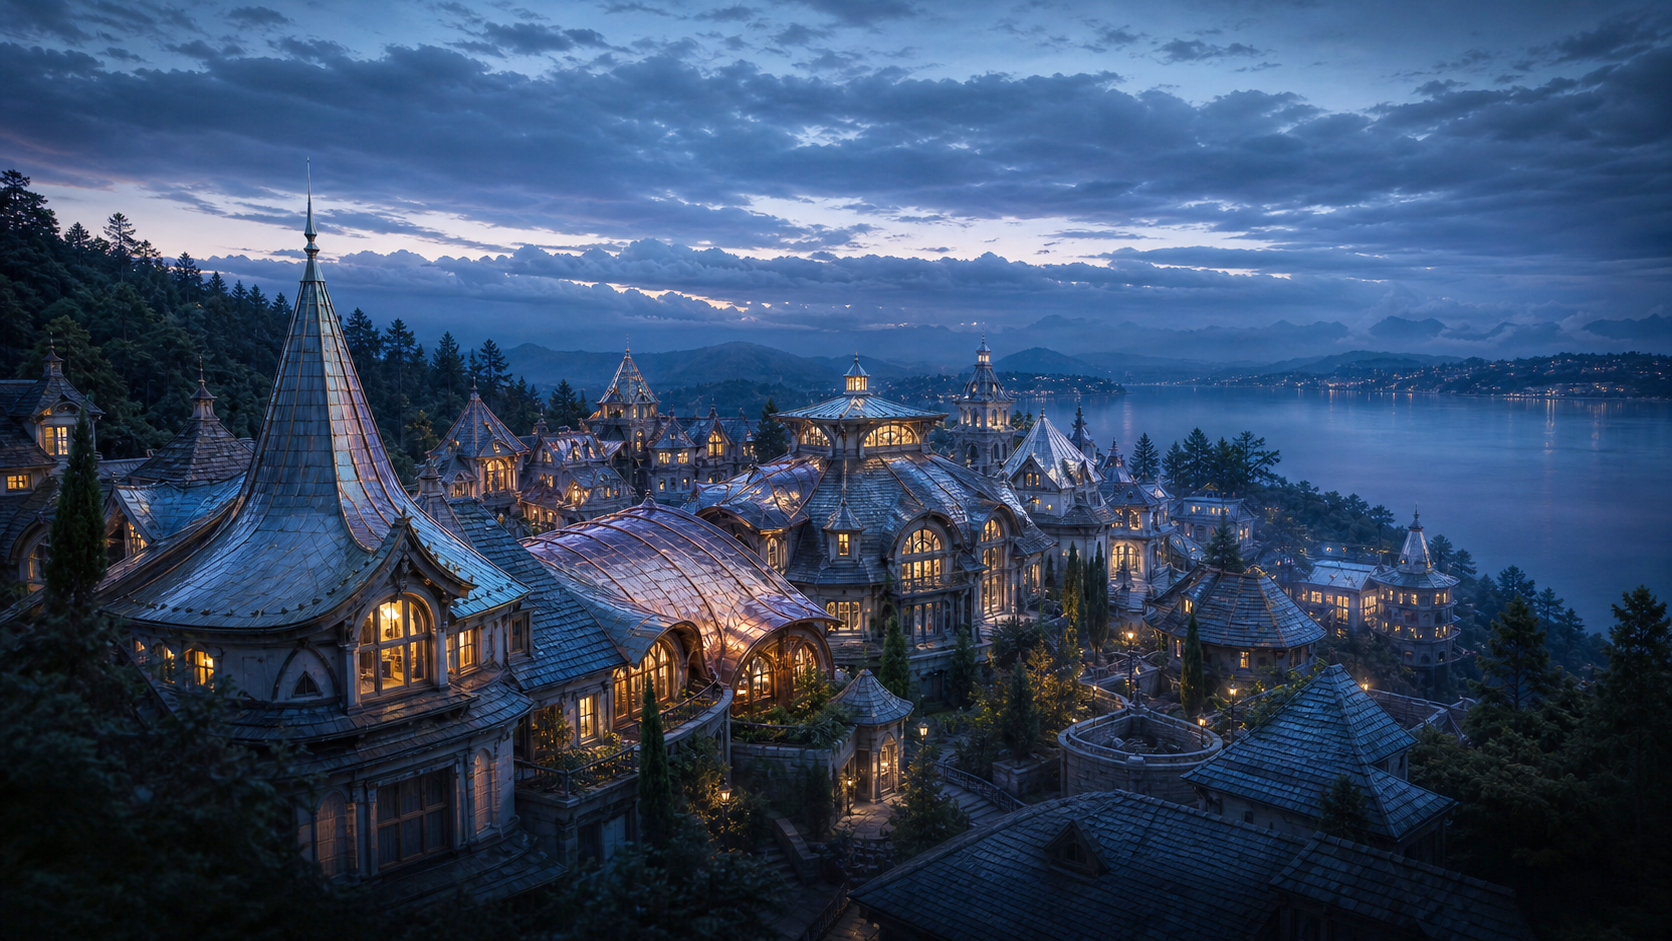
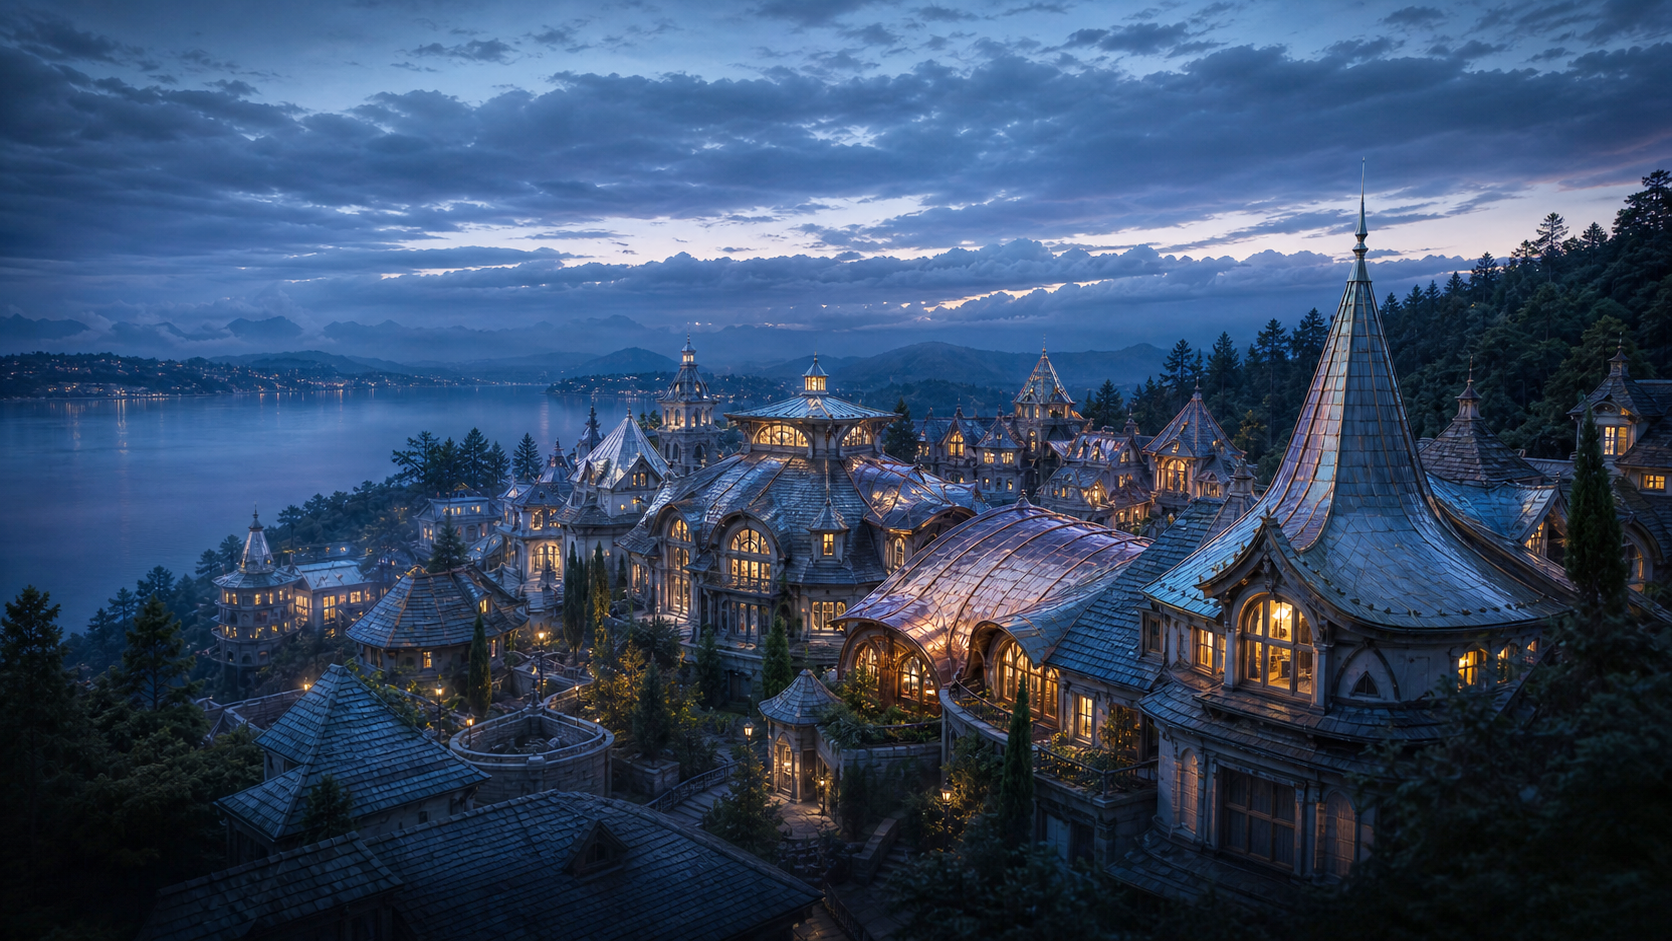
Refresh site visuals and add service hologram

diff --git a/src/styles.css b/src/styles.css
@@ -45,7 +45,7 @@ a { color: inherit; text-decoration: none; }
 .menu-button span { display: block; width: 25px; height: 2px; margin: 5px; background: #041421; }
 .mobile-nav { display: none; }
 .hero { --hero-copper-edge-height: clamp(5px, .55vw, 9px); --hero-copper-edge-shadow-height: clamp(6px, .6vw, 10px); z-index: 2; aspect-ratio: 6821 / 2354.7; position: relative; overflow: hidden; isolation: isolate; background: #041421; }
-.hero::before, .hero::after { content: ''; position: absolute; right: -32px; left: -32px; z-index: 4; height: calc(var(--hero-copper-edge-height) + var(--hero-copper-edge-shadow-height)); background-image: linear-gradient(to bottom, transparent 0 calc(var(--hero-copper-edge-height) - 2px), rgba(4,20,33,.42) calc(var(--hero-copper-edge-height) - 1px), rgba(4,20,33,.7) var(--hero-copper-edge-height), rgba(4,20,33,0) 100%), url('/assets/ui/copper-edge.png'); background-position: 0 0, center top; background-size: 100% 100%, 100% var(--hero-copper-edge-height); background-repeat: no-repeat; filter: drop-shadow(0 3.5px 5px rgba(4,20,33,.65)); pointer-events: none; }
+.hero::before, .hero::after { content: ''; position: absolute; right: -32px; left: -32px; z-index: 4; height: calc(var(--hero-copper-edge-height) + var(--hero-copper-edge-shadow-height)); background-image: linear-gradient(to bottom, transparent 0 calc(var(--hero-copper-edge-height) - 2px), rgba(4,20,33,.34) calc(var(--hero-copper-edge-height) - 1px), rgba(4,20,33,.56) var(--hero-copper-edge-height), rgba(4,20,33,0) 100%), url('/assets/ui/copper-edge.png'); background-position: 0 0, center top; background-size: 100% 100%, 100% var(--hero-copper-edge-height); background-repeat: no-repeat; filter: drop-shadow(0 3.5px 6px rgba(4,20,33,.52)); pointer-events: none; }
 .hero::before { top: 0; }
 .hero::after { display: none; }
 .hero-sky-track { position: absolute; inset: 0; z-index: -3; display: flex; width: max-content; height: 100%; will-change: transform; }
@@ -118,8 +118,8 @@ h1 .hero-accent { color: #d25f26; }
 @keyframes modal-fade-in { from { opacity: 0; } to { opacity: 1; } }
 @keyframes modal-rise-in { from { opacity: 0; transform: translateY(1rem) scale(.98); } to { opacity: 1; transform: translateY(0) scale(1); } }
 .badge-strip { --shirt-hem-height: clamp(26px, 3.15vw, 52px); --copper-edge-height: clamp(5px, .55vw, 9px); --copper-edge-shadow-height: clamp(6px, .6vw, 10px); z-index: 1; height: calc(100vw * 548 / 6821 + var(--shirt-hem-height) - 12px); position: relative; overflow: hidden; background: linear-gradient(rgba(16,36,50,.08), rgba(16,36,50,.08)), url('/assets/textures/badge-banner-workshirt-full-hem.png') center bottom / 100% var(--shirt-hem-height) no-repeat, url('/assets/textures/badge-banner-workshirt.png') center bottom / cover no-repeat, #102432; color: #fff; padding: .7% 4.5%; }
-.badge-strip::before { content: ''; position: absolute; top: 0; right: -32px; left: -32px; z-index: 1; height: calc(var(--copper-edge-height) + var(--copper-edge-shadow-height)); background-image: linear-gradient(to bottom, transparent 0 calc(var(--copper-edge-height) - 2px), rgba(4,20,33,.42) calc(var(--copper-edge-height) - 1px), rgba(4,20,33,.7) var(--copper-edge-height), rgba(4,20,33,0) 100%), url('/assets/ui/copper-edge.png'); background-position: 0 0, center top; background-size: 100% 100%, 100% var(--copper-edge-height); background-repeat: no-repeat; filter: drop-shadow(0 3.5px 5px rgba(4,20,33,.65)); pointer-events: none; }
-.badge-sprite-canvas { position: absolute; top: calc((100% - var(--shirt-hem-height)) / 2 + 3px); left: 4.5%; z-index: 2; width: 91%; aspect-ratio: 2127 / 171; transform: translateY(-50%); }
+.badge-strip::before { content: ''; position: absolute; top: 0; right: -32px; left: -32px; z-index: 1; height: calc(var(--copper-edge-height) + var(--copper-edge-shadow-height)); background-image: linear-gradient(to bottom, transparent 0 calc(var(--copper-edge-height) - 2px), rgba(4,20,33,.34) calc(var(--copper-edge-height) - 1px), rgba(4,20,33,.56) var(--copper-edge-height), rgba(4,20,33,0) 100%), url('/assets/ui/copper-edge.png'); background-position: 0 0, center top; background-size: 100% 100%, 100% var(--copper-edge-height); background-repeat: no-repeat; filter: drop-shadow(0 3.5px 6px rgba(4,20,33,.52)); pointer-events: none; }
+.badge-sprite-canvas { position: absolute; top: calc((100% - var(--shirt-hem-height)) / 2 + 8px); left: 4.5%; z-index: 2; width: 91%; aspect-ratio: 2127 / 171; transform: translateY(-50%); }
 .badge-slice { position: absolute; top: 0; height: 100%; overflow: hidden; opacity: 0; transform: translateY(88%) scale(.98); transform-origin: center bottom; animation: badge-cascade .72s cubic-bezier(.22, 1, .36, 1) forwards; }
 .badge-slice img { position: absolute; top: 0; height: auto; max-width: none; }
 .badge-slice-one { left: 3.06%; width: 17.40%; animation-delay: .08s; }
@@ -206,8 +206,8 @@ h1 .hero-accent { color: #d25f26; }
 @keyframes service-slice-in { to { opacity: 1; transform: translateY(0); } }
 @keyframes service-title-in { from { opacity: 0; } to { opacity: 1; } }
 .gallery-section { --gallery-gap: clamp(8px, .6vw, 12px); --copper-edge-height: clamp(5px, .55vw, 9px); --copper-edge-shadow-height: clamp(6px, .6vw, 10px); position: relative; padding: 3.2vw 2.55%; overflow: hidden; color: #e5dcd2; background: #071925; }
-.gallery-section::before { position: absolute; top: 0; right: -32px; left: -32px; z-index: 4; height: calc(var(--copper-edge-height) + var(--copper-edge-shadow-height)); content: ''; background-image: linear-gradient(to bottom, transparent 0 calc(var(--copper-edge-height) - 2px), rgba(4,20,33,.42) calc(var(--copper-edge-height) - 1px), rgba(4,20,33,.7) var(--copper-edge-height), rgba(4,20,33,0) 100%), url('/assets/ui/copper-edge.png'); background-position: 0 0, center top; background-size: 100% 100%, 100% var(--copper-edge-height); background-repeat: no-repeat; filter: drop-shadow(0 3.5px 5px rgba(4,20,33,.65)); pointer-events: none; }
-.copper-edge-seam { --copper-edge-height: clamp(5px, .55vw, 9px); --copper-edge-shadow-height: clamp(6px, .6vw, 10px); position: relative; z-index: 5; display: block; height: calc(var(--copper-edge-height) + var(--copper-edge-shadow-height)); margin-bottom: calc((var(--copper-edge-height) + var(--copper-edge-shadow-height)) * -1); background-image: linear-gradient(to bottom, transparent 0 calc(var(--copper-edge-height) - 2px), rgba(4,20,33,.42) calc(var(--copper-edge-height) - 1px), rgba(4,20,33,.7) var(--copper-edge-height), rgba(4,20,33,0) 100%), url('/assets/ui/copper-edge.png'); background-position: 0 0, center top; background-size: 100% 100%, 100% var(--copper-edge-height); background-repeat: no-repeat; filter: drop-shadow(0 3.5px 5px rgba(4,20,33,.65)); pointer-events: none; }
+.gallery-section::before { position: absolute; top: 0; right: -32px; left: -32px; z-index: 4; height: calc(var(--copper-edge-height) + var(--copper-edge-shadow-height)); content: ''; background-image: linear-gradient(to bottom, transparent 0 calc(var(--copper-edge-height) - 2px), rgba(4,20,33,.34) calc(var(--copper-edge-height) - 1px), rgba(4,20,33,.56) var(--copper-edge-height), rgba(4,20,33,0) 100%), url('/assets/ui/copper-edge.png'); background-position: 0 0, center top; background-size: 100% 100%, 100% var(--copper-edge-height); background-repeat: no-repeat; filter: drop-shadow(0 3.5px 6px rgba(4,20,33,.52)); pointer-events: none; }
+.copper-edge-seam { --copper-edge-height: clamp(5px, .55vw, 9px); --copper-edge-shadow-height: clamp(6px, .6vw, 10px); position: relative; z-index: 5; display: block; height: calc(var(--copper-edge-height) + var(--copper-edge-shadow-height)); margin-bottom: calc((var(--copper-edge-height) + var(--copper-edge-shadow-height)) * -1); background-image: linear-gradient(to bottom, transparent 0 calc(var(--copper-edge-height) - 2px), rgba(4,20,33,.34) calc(var(--copper-edge-height) - 1px), rgba(4,20,33,.56) var(--copper-edge-height), rgba(4,20,33,0) 100%), url('/assets/ui/copper-edge.png'); background-position: 0 0, center top; background-size: 100% 100%, 100% var(--copper-edge-height); background-repeat: no-repeat; filter: drop-shadow(0 3.5px 6px rgba(4,20,33,.52)); pointer-events: none; }
 .gallery-layout { --gallery-rail-width: clamp(6.8rem, 8vw, 9rem); --gallery-layout-gap: clamp(1rem, 1.8vw, 2rem); container-type: inline-size; display: grid; grid-template-columns: var(--gallery-rail-width) minmax(0, 1fr); align-items: start; column-gap: var(--gallery-layout-gap); }
 .gallery-content { position: relative; min-width: 0; }
 .gallery-brutalist-heading { align-self: stretch; margin: 0; opacity: 0; transform: translateY(1.2vw); position: relative; z-index: 2; }

diff --git a/src/premium-sections.css b/src/premium-sections.css
@@ -1,4 +1,4 @@
-:where(.premium-sections, .premium-footer, .premium-persistent-cta) {
+:where(.premium-sections, .premium-footer, .customer-service-hologram) {
   --premium-ink: #041421;
   --premium-ink-2: #102b3d;
   --premium-cream: #e5dcd2;
@@ -275,7 +275,7 @@
 .premium-review-google-link img { width: min(1.2rem,1.33vw); height: min(1.2rem,1.33vw); }
 
 .premium-footer { --copper-edge-height: clamp(5px, .55vw, 9px); --copper-edge-shadow-height: clamp(6px, .6vw, 10px); position: relative; height: 72vw; min-height: 0; overflow: hidden; color: #fff; background: var(--premium-ink); }
-.premium-footer::before { position: absolute; top: 0; right: -32px; left: -32px; z-index: 4; height: calc(var(--copper-edge-height) + var(--copper-edge-shadow-height)); content: ''; background-image: linear-gradient(to bottom, transparent 0 calc(var(--copper-edge-height) - 2px), rgba(4,20,33,.42) calc(var(--copper-edge-height) - 1px), rgba(4,20,33,.7) var(--copper-edge-height), rgba(4,20,33,0) 100%), url('/assets/ui/copper-edge.png'); background-position: 0 0, center top; background-size: 100% 100%, 100% var(--copper-edge-height); background-repeat: no-repeat; filter: drop-shadow(0 3.5px 5px rgba(4,20,33,.65)); pointer-events: none; }
+.premium-footer::before { position: absolute; top: 0; right: -32px; left: -32px; z-index: 4; height: calc(var(--copper-edge-height) + var(--copper-edge-shadow-height)); content: ''; background-image: linear-gradient(to bottom, transparent 0 calc(var(--copper-edge-height) - 2px), rgba(4,20,33,.34) calc(var(--copper-edge-height) - 1px), rgba(4,20,33,.56) var(--copper-edge-height), rgba(4,20,33,0) 100%), url('/assets/ui/copper-edge.png'); background-position: 0 0, center top; background-size: 100% 100%, 100% var(--copper-edge-height); background-repeat: no-repeat; filter: drop-shadow(0 3.5px 6px rgba(4,20,33,.52)); pointer-events: none; }
 .premium-footer-matte { position: absolute; inset: 0; pointer-events: none; }
 .premium-footer-matte::after { position: absolute; inset: 0; content: ''; background: linear-gradient(0deg,#031018 2%,rgba(3,16,24,.9) 30%,rgba(3,16,24,.36) 68%,rgba(3,16,24,.76)); opacity: .85; }
 .premium-footer-back { width: 100%; height: 100%; display: block; object-fit: contain; object-position: center top; transform: translateY(-1.5vw); }
@@ -317,11 +317,15 @@
 .premium-footer-utility a:hover,.premium-footer-utility a:focus-visible { color: #fff; border-bottom-color: var(--premium-orange); }
 .premium-footer-utility > div { justify-content: flex-end; color: rgba(255,255,255,.6); font-family: 'IBM Plex Mono',monospace; font-size: .62vw; font-weight: 700; letter-spacing: .08em; text-transform: uppercase; }
 
-.premium-persistent-cta { position: fixed; right: 1.6rem; bottom: max(1.6rem,env(safe-area-inset-bottom)); z-index: 18; width: min(24.4rem,calc(100vw - 2.25rem)); min-height: 4.6rem; padding: .45rem; border: 1px solid rgba(240,183,124,.9); display: grid; grid-template-columns: 3.5rem 1fr 3rem; align-items: center; gap: .75rem; color: #fff; background: linear-gradient(145deg,rgba(255,255,255,.11),transparent 32%),url('/assets/textures/powder-coated-navy-steel.png') center / 600px,var(--premium-ink); box-shadow: 0 1.25rem 3.75rem rgba(2,12,19,.36),inset 0 0 0 3px rgba(0,0,0,.28); opacity: 0; transform: translateY(1.75rem) scale(.97); pointer-events: none; cursor: pointer; transition: opacity .3s ease,transform .5s cubic-bezier(.2,.8,.2,1); }
-.premium-persistent-cta.is-visible { opacity: 1; transform: none; pointer-events: auto; }
-.premium-persistent-icon,.premium-persistent-arrow { align-self: stretch; display: grid; place-items: center; }.premium-persistent-icon { border: 1px solid rgba(240,183,124,.5); color: var(--premium-copper-light); background: rgba(185,110,66,.1); font-size: 1.3rem; }.premium-persistent-arrow { color: #fff; background: var(--premium-orange); font-size: 1.15rem; }
-.premium-persistent-copy { display: grid; gap: 3px; text-align: left; animation: premium-cta-copy .35s ease both; }.premium-persistent-copy small { color: var(--premium-copper-light); font-family: 'IBM Plex Mono',monospace; font-size: .55rem; font-weight: 700; letter-spacing: .12em; text-transform: uppercase; }.premium-persistent-copy strong { font-family: Antonio,sans-serif; font-size: 1rem; font-weight: 600; letter-spacing: .02em; text-transform: uppercase; }
-@keyframes premium-cta-copy { from { opacity: 0; transform: translateY(6px); } }
+.customer-service-hologram { position: fixed; right: clamp(.65rem,2vw,1.6rem); bottom: max(.4rem,env(safe-area-inset-bottom)); z-index: 18; width: clamp(12rem,19vw,18rem); aspect-ratio: 720 / 1626; padding: 0; border: 0; opacity: 0; overflow: visible; background: transparent; filter: drop-shadow(0 1.1rem 1.5rem rgba(2,12,19,.38)); transform: translateX(calc(100% + 2rem)); pointer-events: none; cursor: pointer; transition: opacity .35s ease .62s,transform .55s cubic-bezier(.3,.75,.2,1) .62s,filter .25s ease; }
+.customer-service-hologram.is-active { opacity: 1; transform: translateX(0); pointer-events: auto; transition-delay: 0s; }
+.customer-service-hologram.is-obscured { opacity: 0; pointer-events: none; transition: opacity .2s ease; }
+.customer-service-hologram:hover { filter: drop-shadow(0 1.15rem 1.7rem rgba(2,12,19,.5)) brightness(1.06); }
+.customer-service-hologram:focus-visible { outline: 2px solid #fff; outline-offset: .2rem; }
+.customer-service-hologram-puck,.customer-service-hologram-reveal,.customer-service-hologram-reveal img { position: absolute; inset: 0; width: 100%; height: 100%; object-fit: contain; }
+.customer-service-hologram-puck { display: block; }
+.customer-service-hologram-reveal { clip-path: inset(100% 0 0); transition: clip-path .58s cubic-bezier(.55,.05,.35,1); }
+.customer-service-hologram.is-active .customer-service-hologram-reveal { clip-path: inset(0); transition-delay: .48s; }
 
 .app.is-mobile-device .premium-shell { width: calc(100% - 28px); }
 .app.is-mobile-device .premium-kicker { font-size: .72rem; }
@@ -372,9 +376,9 @@
 .app.is-mobile-device .premium-footer-utility nav,
 .app.is-mobile-device .premium-footer-utility > div { gap: .9rem 1.75rem; }
 .app.is-mobile-device .premium-footer-utility > div { justify-content: flex-start; font-size: .56rem; }
-.app.is-mobile-device .premium-persistent-cta { right: .75rem; bottom: max(.75rem,env(safe-area-inset-bottom)); width: calc(100vw - 1.5rem); grid-template-columns: 3.1rem 1fr 2.75rem; }
+.app.is-mobile-device .customer-service-hologram { right: .45rem; width: clamp(10rem,43vw,13rem); }
 
 @media (prefers-reduced-motion: reduce) {
   [data-premium-reveal] { opacity: 1; transform: none; }
-  .premium-sections *, .premium-sections *::before, .premium-sections *::after, .premium-footer *, .premium-footer *::before, .premium-footer *::after, .premium-persistent-cta { animation-duration: .001ms !important; animation-iteration-count: 1 !important; scroll-behavior: auto !important; }
+  .premium-sections *, .premium-sections *::before, .premium-sections *::after, .premium-footer *, .premium-footer *::before, .premium-footer *::after, .customer-service-hologram, .customer-service-hologram * { animation-duration: .001ms !important; animation-iteration-count: 1 !important; transition-duration: .001ms !important; transition-delay: 0s !important; scroll-behavior: auto !important; }
 }

diff --git a/src/PremiumSections.tsx b/src/PremiumSections.tsx
@@ -38,16 +38,6 @@ const serviceLocation = {
   mapsUrl: 'https://www.google.com/maps/search/?api=1&query=The%20Garden%2C%2026%20Gandalf%27s%20Cutting%2C%20Waikato%203472%2C%20New%20Zealand',
 }
 
-const ctaContexts = [
-  { section: 'top', eyebrow: 'Free roof inspection', label: 'Book an appointment' },
-  { section: 'services', eyebrow: 'Need a recommendation?', label: 'Choose my roof system' },
-  { section: 'work', eyebrow: 'Found the roof you want?', label: 'Price this roof' },
-  { section: 'protection', eyebrow: 'Concerned about hidden layers?', label: 'Inspect my roof' },
-  { section: 'reviews', eyebrow: 'Ready for the same care?', label: 'Book an appointment' },
-  { section: 'location', eyebrow: 'Inside the service area?', label: 'Check availability' },
-  { section: 'contact', eyebrow: 'Start with certainty', label: 'Book an appointment' },
-] as const
-
 function usePremiumReveal() {
   useEffect(() => {
     const elements = Array.from(document.querySelectorAll<HTMLElement>('[data-premium-reveal]'))
@@ -183,27 +173,64 @@ export function PremiumFooter({ onBook }: BookHandler) {
   )
 }
 
-export function PersistentPremiumCta({ onBook, hidden }: BookHandler & { hidden: boolean }) {
-  const [activeSection, setActiveSection] = useState('top')
-  const [visible, setVisible] = useState(false)
+export function CustomerServiceHologram({ onBook, hidden }: BookHandler & { hidden: boolean }) {
+  const [active, setActive] = useState(false)
 
   useEffect(() => {
-    const hero = document.getElementById('top')
-    const sections = ctaContexts.map((item) => document.getElementById(item.section)).filter((node): node is HTMLElement => Boolean(node))
-    const heroObserver = hero ? new IntersectionObserver(([entry]) => setVisible(!entry.isIntersecting), { threshold: .18 }) : null
-    if (hero && heroObserver) heroObserver.observe(hero)
-    const sectionObserver = new IntersectionObserver((entries) => {
-      const candidate = entries.filter((entry) => entry.isIntersecting).sort((a, b) => b.intersectionRatio - a.intersectionRatio)[0]
-      if (candidate?.target.id) setActiveSection(candidate.target.id)
-    }, { rootMargin: '-25% 0px -55%', threshold: [0, .2, .5, .8] })
-    sections.forEach((section) => sectionObserver.observe(section))
-    return () => { heroObserver?.disconnect(); sectionObserver.disconnect() }
+    let frame = 0
+    let previousScrollY = window.scrollY
+    const update = () => {
+      frame = 0
+      const scrollY = window.scrollY
+      const scrollingUp = scrollY < previousScrollY
+      previousScrollY = scrollY
+
+      if (scrollY <= 1) {
+        setActive(false)
+        return
+      }
+
+      const gallery = document.getElementById('work')
+      if (scrollingUp && gallery) {
+        const bounds = gallery.getBoundingClientRect()
+        const visibleHeight = Math.max(0, Math.min(bounds.bottom, window.innerHeight) - Math.max(bounds.top, 0))
+        const fullyVisibleHeight = Math.min(bounds.height, window.innerHeight)
+        if (fullyVisibleHeight > 0 && visibleHeight / fullyVisibleHeight >= .98) {
+          setActive(false)
+          return
+        }
+      }
+
+      const reviews = document.getElementById('reviews')
+      if (reviews && reviews.getBoundingClientRect().top <= window.innerHeight / 2) setActive(true)
+    }
+    const requestUpdate = () => {
+      if (!frame) frame = window.requestAnimationFrame(update)
+    }
+
+    update()
+    window.addEventListener('scroll', requestUpdate, { passive: true })
+    window.addEventListener('resize', requestUpdate)
+    return () => {
+      window.removeEventListener('scroll', requestUpdate)
+      window.removeEventListener('resize', requestUpdate)
+      if (frame) window.cancelAnimationFrame(frame)
+    }
   }, [])
 
-  const context = ctaContexts.find((item) => item.section === activeSection) ?? ctaContexts[0]
   return (
-    <button type="button" className={`premium-persistent-cta${visible && !hidden ? ' is-visible' : ''}`} onClick={onBook} aria-label={`${context.label}. ${context.eyebrow}`}>
-      <span className="premium-persistent-icon" aria-hidden="true">⌂</span><span className="premium-persistent-copy" key={context.section}><small>{context.eyebrow}</small><strong>{context.label}</strong></span><span className="premium-persistent-arrow" aria-hidden="true">↗</span>
+    <button
+      type="button"
+      className={`customer-service-hologram${active ? ' is-active' : ''}${hidden ? ' is-obscured' : ''}`}
+      onClick={onBook}
+      aria-label="Talk to customer service"
+      aria-hidden={!active || hidden}
+      tabIndex={active && !hidden ? 0 : -1}
+    >
+      <img className="customer-service-hologram-puck" src="/assets/customer service/customer_service_hologram_puck.png" alt="" aria-hidden="true" />
+      <span className="customer-service-hologram-reveal" aria-hidden="true">
+        <img src="/assets/customer service/customer_service_hologram_full.png" alt="" />
+      </span>
     </button>
   )
 }

diff --git a/src/main.tsx b/src/main.tsx
@@ -3,7 +3,7 @@ import { createRoot } from 'react-dom/client'
 import { ArrowRight, ArrowUpRight, CalendarDays, CheckCircle2, ChevronLeft, ChevronRight, Mail, MapPin, MessageSquare, Phone, Send, UserRound, X } from 'lucide-react'
 import './styles.css'
 import './premium-sections.css'
-import { PersistentPremiumCta, PremiumFooter, PremiumSections } from './PremiumSections'
+import { CustomerServiceHologram, PremiumFooter, PremiumSections } from './PremiumSections'
 
 const asset = '/assets/'
 
@@ -1010,7 +1010,7 @@ function App() {
   const [appointmentOpen, setAppointmentOpen] = useState(false)
   useStableViewportOnResize(appointmentOpen)
   const openAppointment = () => setAppointmentOpen(true)
-  return <div className={mobileDevice ? 'app is-mobile-device' : 'app'}><Header onBookAppointment={openAppointment} /><main><Hero onBookAppointment={openAppointment} /><BadgeStrip /><Services mobileDevice={mobileDevice} /><Gallery /><span className="copper-edge-seam" aria-hidden="true" /><PremiumSections onBook={openAppointment} /></main><PremiumFooter onBook={openAppointment} /><PersistentPremiumCta onBook={openAppointment} hidden={appointmentOpen} />{appointmentOpen && <AppointmentModal mobileDevice={mobileDevice} onClose={() => setAppointmentOpen(false)} />}</div>
+  return <div className={mobileDevice ? 'app is-mobile-device' : 'app'}><Header onBookAppointment={openAppointment} /><main><Hero onBookAppointment={openAppointment} /><BadgeStrip /><Services mobileDevice={mobileDevice} /><Gallery /><span className="copper-edge-seam" aria-hidden="true" /><PremiumSections onBook={openAppointment} /></main><PremiumFooter onBook={openAppointment} /><CustomerServiceHologram onBook={openAppointment} hidden={appointmentOpen} />{appointmentOpen && <AppointmentModal mobileDevice={mobileDevice} onClose={() => setAppointmentOpen(false)} />}</div>
 }
 
 createRoot(document.getElementById('root')!).render(<App />)
